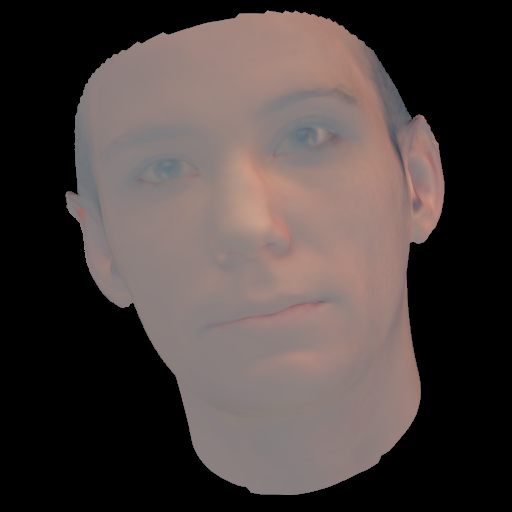
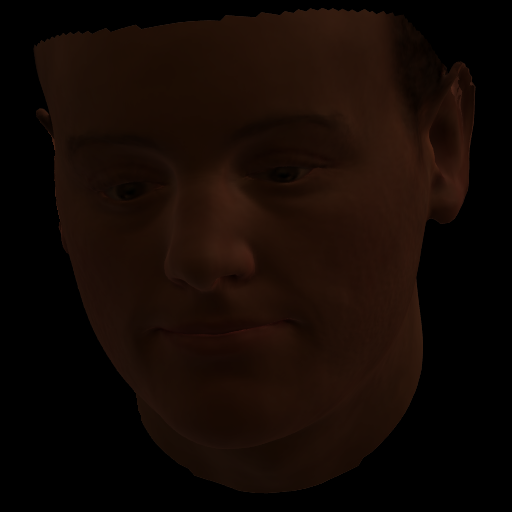
Denorm

diff --git a/main.py b/main.py
@@ -33,11 +33,15 @@ albedo, normal, mask, sh, face = next(iter(train_dl))
 # masked_image = applyMask(face, mask)
 # save_image(masked_image)
 
+normal = denorm(normal)
+albedo = denorm(albedo)
 shading = getShadingFromNormalAndSH(normal, sh)
-save_image(shading, mask=mask, path='./results/shading_from_normal/shading_ours.png')
+save_image(albedo,  denormalize=False,mask=mask, path='./results/shading_from_normal/albedo.png')
+save_image(normal,  denormalize=False,mask=mask, path='./results/shading_from_normal/normal.png')
+save_image(shading, denormalize=False, mask=mask, path='./results/shading_from_normal/shading_ours.png')
 
 recon   = shading * albedo
-save_image(recon, mask=mask, path='./results/shading_from_normal/recon_ours.png')
+save_image(recon, mask=mask, denormalize=False, path='./results/shading_from_normal/recon_ours.png')
 save_image(face, mask=mask, path = './results/shading_from_normal/recon_groundtruth.png')
 
 recon = applyMask(recon, mask)
@@ -48,9 +52,9 @@ print('L1Loss Ours: ', mseLoss(face, recon).item())
 sfsnet_shading_net = sfsNetShading()
 sh = sh.view(sh.shape[0], sh.shape[2])
 sfs_shading = sfsnet_shading_net(normal, sh)
-save_image(sfs_shading, mask=mask, path='./results/shading_from_normal/shading_sfsnet.png')
+save_image(sfs_shading, mask=mask, denormalize=False, path='./results/shading_from_normal/shading_sfsnet.png')
 recon   = sfs_shading * albedo
-save_image(recon, mask=mask, path='./results/shading_from_normal/recon_sfsnet.png')
+save_image(recon, mask=mask, denormalize=False, path='./results/shading_from_normal/recon_sfsnet.png')
 
 recon = applyMask(recon, mask)
 face  = applyMask(face, mask)

diff --git a/utils.py b/utils.py
@@ -6,8 +6,10 @@ def denorm(x):
     out = (x + 1) / 2
     return out.clamp(0, 1)
 
-def save_image(pic, path=None, mask=None):
-    pic = denorm(pic)
+def save_image(pic, denormalize=True, path=None, mask=None):
+    if denormalize:
+        pic = denorm(pic)
+    
     if mask is not None:
         pic = pic * mask
 
